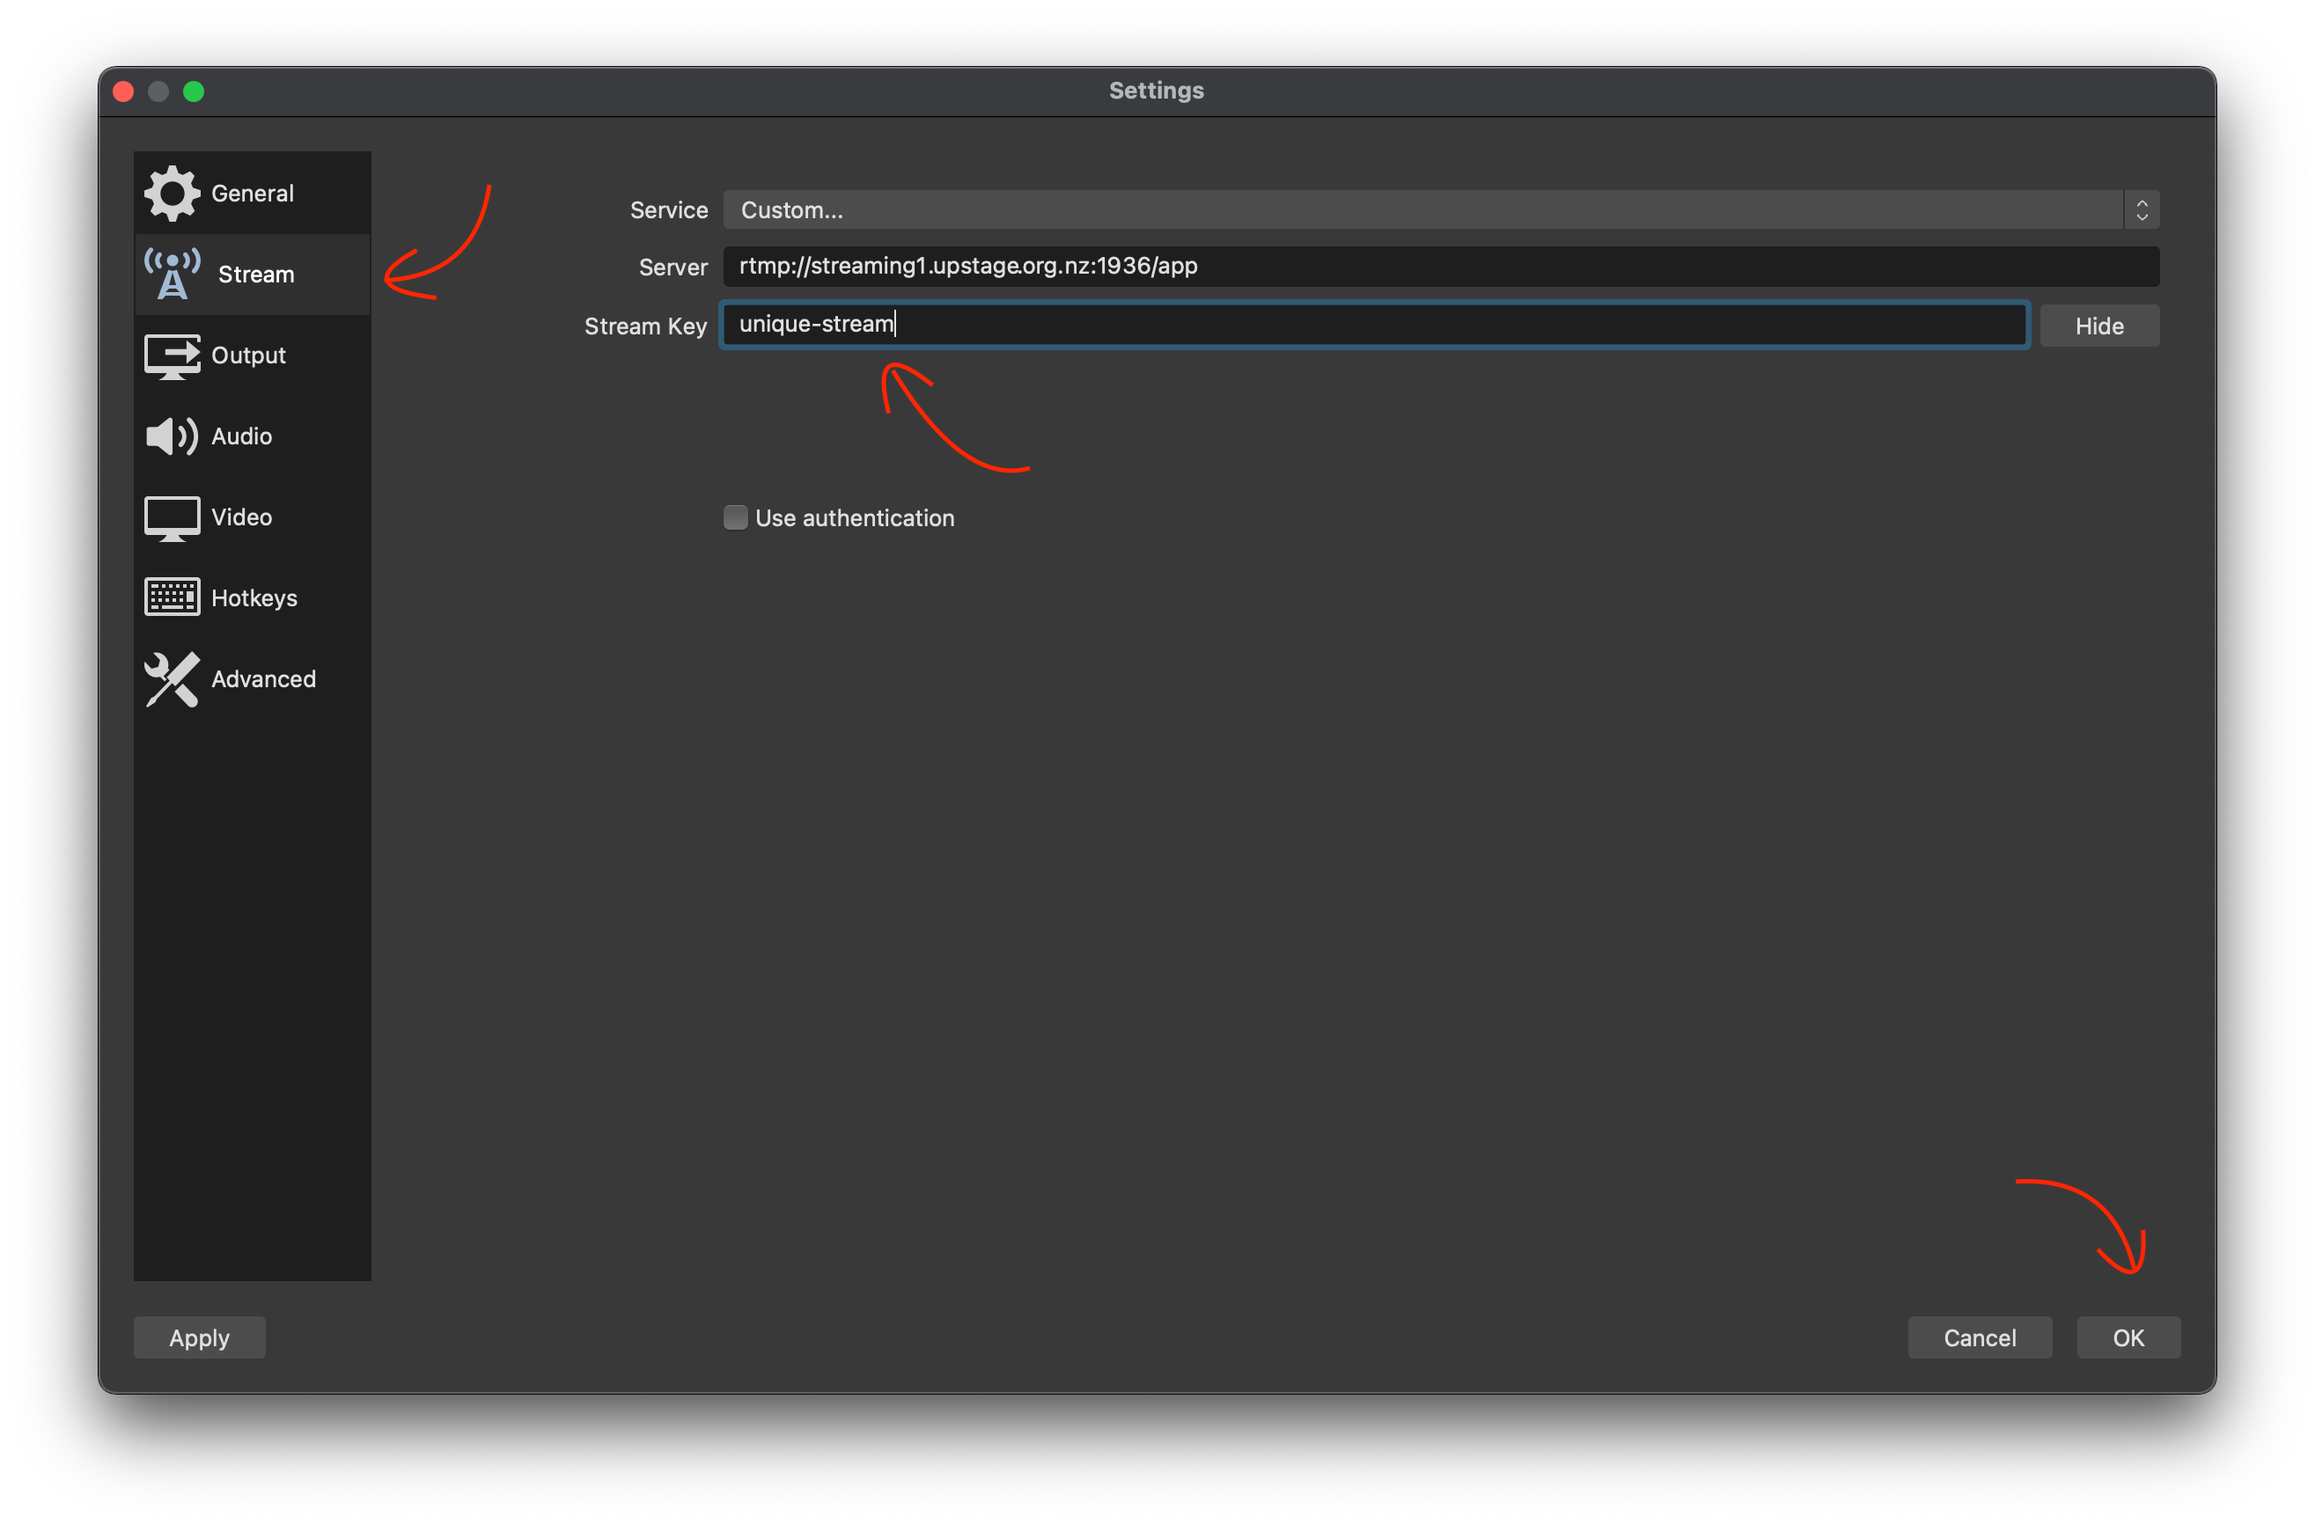
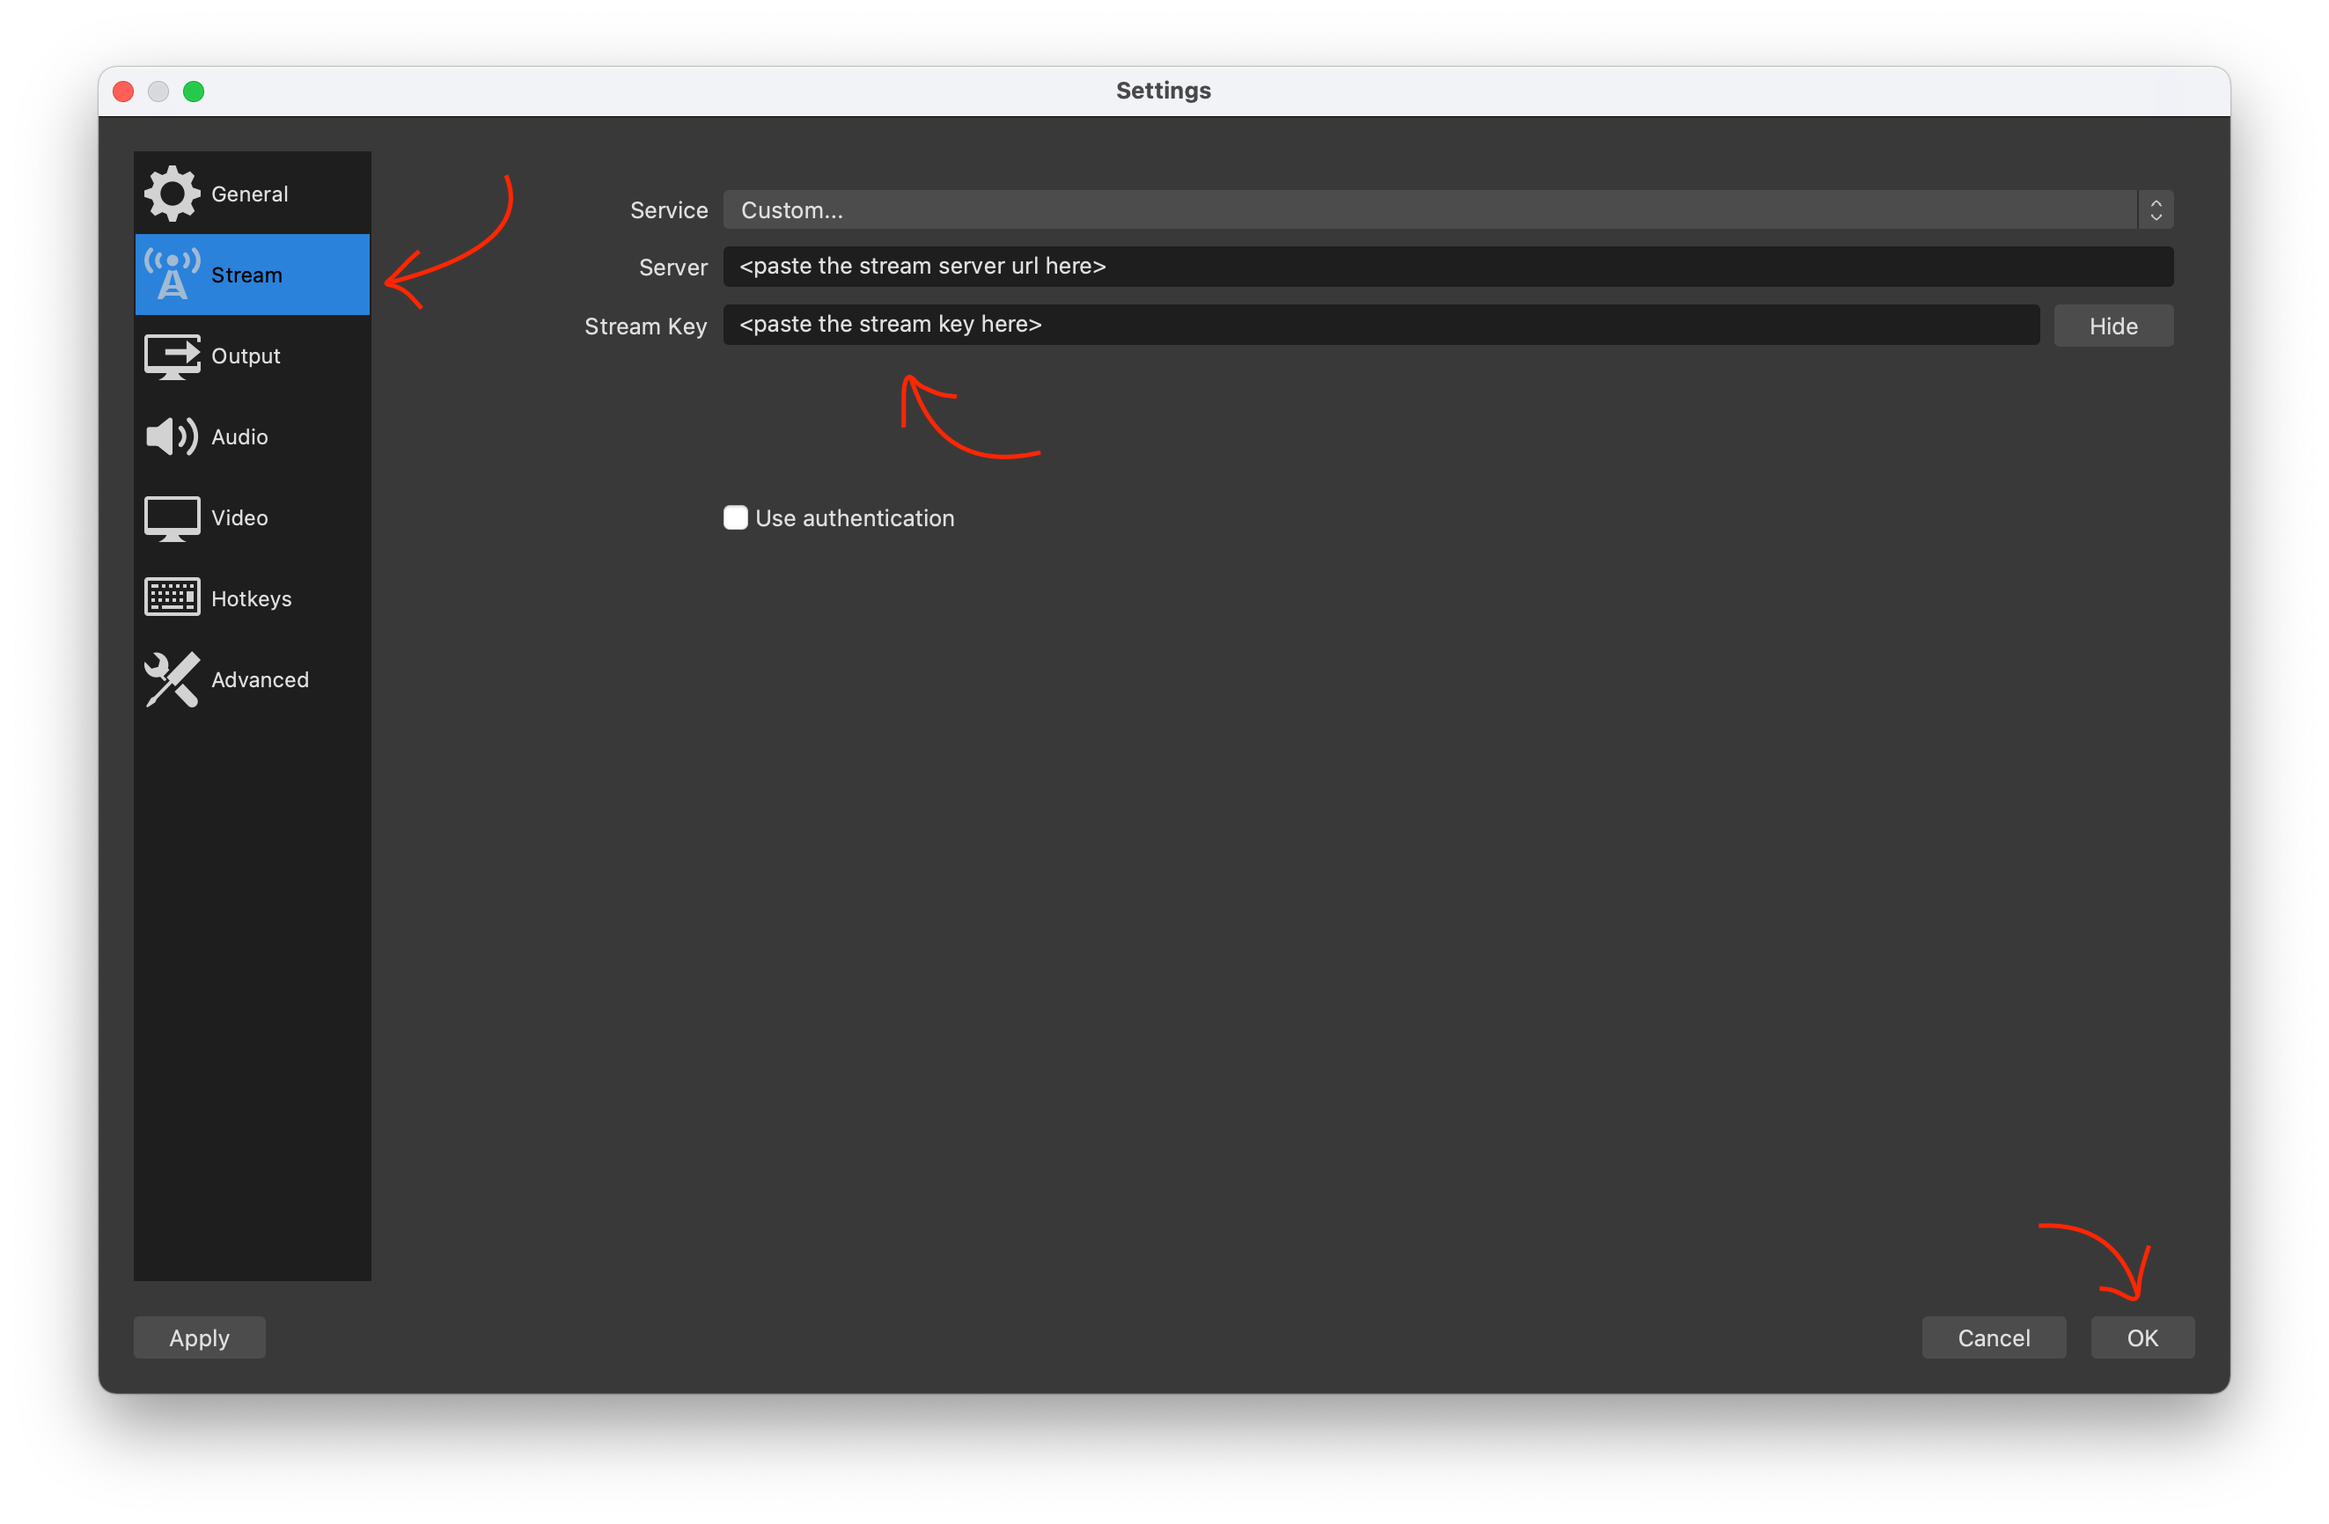
fix streaming not moveable and new shape type

diff --git a/ui/dashboard/src/store/modules/stage/index.js b/ui/dashboard/src/store/modules/stage/index.js
@@ -38,6 +38,7 @@ export default {
             backdrops: [],
             audios: [],
             streams: [],
+            shapes: [],
             config: {
                 animateDuration: 1000,
                 reactionDuration: 5000,
@@ -96,6 +97,7 @@ export default {
                 .concat(state.tools.avatars.map(a => a.frames ?? []).flat())
                 .concat(state.tools.props.map(p => p.src))
                 .concat(state.tools.backdrops.map(b => b.src))
+                .concat(state.tools.shapes.map(b => b.src))
             return assets;
         },
         audios(state) {
@@ -306,7 +308,9 @@ export default {
         },
         PUSH_RUNNING_STREAMS(state, streams) {
             state.tools.streams = state.tools.streams.filter(s => !s.autoDetect).concat(streams);
-            state.loadingRunningStreams = false
+        },
+        PUSH_SHAPES(state, shapes) {
+            state.tools.shapes = shapes;
         },
         UPDATE_IS_DRAWING(state, isDrawing) {
             state.preferences.isDrawing = isDrawing;
@@ -644,10 +648,12 @@ export default {
         async loadStage({ commit, dispatch }, { url, recordId }) {
             commit('CLEAN_STAGE', true);
             commit('SET_PRELOADING_STATUS', true);
-            const model = await stageGraph.loadStage(url, recordId)
-            if (model) {
-                commit('SET_MODEL', model);
-                const { events } = model
+            const { stage, shapes } = await stageGraph.loadStage(url, recordId)
+            console.log(shapes)
+            if (stage) {
+                commit('SET_MODEL', stage);
+                commit('PUSH_SHAPES', shapes)
+                const { events } = stage
                 if (recordId) {
                     commit('SET_REPLAY', {
                         timestamp: {
@@ -731,6 +737,7 @@ export default {
             state.loadingRunningStreams = true
             const streams = await nmsService.getStreams()
             commit('PUSH_RUNNING_STREAMS', streams)
+            state.loadingRunningStreams = false
         }
     },
 };

diff --git a/ui/dashboard/src/components/stage/Toolbox/tools/Stream/index.vue b/ui/dashboard/src/components/stage/Toolbox/tools/Stream/index.vue
@@ -1,9 +1,9 @@
 <template>
   <div @click="newStream">
-    <div class="icon is-large">
-      <Icon src="new.svg" size="36" />
+    <div style="height: 48px">
+      <OBSInstruction />
     </div>
-    <span class="tag is-light is-block">New</span>
+    <span class="tag is-light is-block">Instruction</span>
   </div>
   <div v-for="stream in streams" :key="stream">
     <Skeleton :data="stream">
@@ -14,30 +14,35 @@
   <div v-if="loading">
     <LoadingSkeleton />
   </div>
+  <div v-else @click="fetchRunningStreams">
+    <div class="icon is-large">
+      <Icon src="refresh.svg" size="36" />
+    </div>
+    <span class="tag is-light is-block">Refresh</span>
+  </div>
 </template>
 
 <script>
-import { computed } from "vue";
+import { computed, onMounted } from "vue";
 import { useStore } from "vuex";
 import Skeleton from "../../Skeleton";
 import Icon from "@/components/Icon";
 import RTMPStream from "@/components/RTMPStream";
 import LoadingSkeleton from "@/components/Skeleton";
+import OBSInstruction from "@/views/backstage/Media/OBSInstruction";
 
 export default {
-  components: { Skeleton, Icon, RTMPStream, LoadingSkeleton },
+  components: { Skeleton, Icon, RTMPStream, LoadingSkeleton, OBSInstruction },
   setup: () => {
     const store = useStore();
-    const newStream = () => {
-      store.dispatch("stage/openSettingPopup", {
-        type: "CreateStream",
-      });
-    };
     const streams = computed(() => store.state.stage.tools.streams);
     const loading = computed(() => store.state.stage.loadingRunningStreams);
-    store.dispatch("stage/getRunningStreams");
+    const fetchRunningStreams = () => {
+      store.dispatch("stage/getRunningStreams");
+    };
+    onMounted(fetchRunningStreams);
 
-    return { streams, newStream, loading };
+    return { streams, loading, fetchRunningStreams };
   },
 };
 </script>

diff --git a/ui/dashboard/src/components/objects/Streamer/index.vue b/ui/dashboard/src/components/objects/Streamer/index.vue
@@ -39,14 +39,15 @@
                 </div>
               </button>
             </p>
-            <p class="control menu-group-item" @click="clip(vue)">
+            <p
+              class="control menu-group-item"
+              v-for="shape in shapes"
+              :key="shape.src"
+              @click="clip(shape.src)"
+              :title="shape.name"
+            >
               <button class="button is-light">
-                <img style="height: 100%" :src="vue" />
-              </button>
-            </p>
-            <p class="control menu-group-item" @click="clip(dog)">
-              <button class="button is-light">
-                <img style="height: 100%" :src="dog" />
+                <img style="height: 100%" :src="shape.src" />
               </button>
             </p>
           </div>
@@ -70,8 +71,6 @@ import { computed, reactive, ref, watch } from "vue";
 import Object from "../Object.vue";
 import { useStore } from "vuex";
 import { useFlv, useShape } from "./composable";
-import vue from "@/assets/logo.png";
-import dog from "@/assets/dog.png";
 import { getSubsribeLink } from "@/utils/streaming";
 
 export default {
@@ -79,6 +78,8 @@ export default {
   props: ["object"],
   setup: (props) => {
     const store = useStore();
+    const shapes = computed(() => store.state.stage.tools.shapes);
+
     const stream = reactive({ ...props.object, isPlaying: true });
     const video = ref();
 
@@ -97,8 +98,8 @@ export default {
     watch(
       () => props.object,
       () => {
-        delete props.object.src;
         window.Object.assign(stream, props.object);
+        console.log(props.object);
         synchronize();
       }
     );
@@ -147,8 +148,7 @@ export default {
       playStream,
       pauseStream,
       clip,
-      vue,
-      dog,
+      shapes,
     };
   },
 };

diff --git a/ui/dashboard/src/components/objects/Streamer/composable.js b/ui/dashboard/src/components/objects/Streamer/composable.js
@@ -1,4 +1,4 @@
-import { computed, onMounted, ref, watch } from "vue";
+import { onMounted, ref, watch } from "vue";
 import { cropImageFromCanvas } from "@/utils/canvas";
 import flvjs from "flv.js";
 
@@ -17,7 +17,7 @@ export const useShape = (video, object) => {
     const loop = () => {
         if (!video.value.paused && !video.value.ended) {
             draw();
-            setTimeout(loop, 1000 / 30); // drawing at 30fps
+            requestAnimationFrame(loop);
         }
     }
 
@@ -62,7 +62,7 @@ export const useShape = (video, object) => {
 }
 
 export const useFlv = (video, src) => {
-    const isSupported = computed(() => flvjs.isSupported());
+    const playable = ref(flvjs.isSupported());
 
     const initPlayer = () => {
         if (flvjs.isSupported()) {
@@ -70,15 +70,17 @@ export const useFlv = (video, src) => {
                 type: "flv",
                 url: src.value,
             });
+            flvPlayer.on('error', (e) => {
+                console.log('error', e)
+                playable.value = false
+            })
             flvPlayer.attachMediaElement(video.value);
             flvPlayer.load();
-            flvPlayer.play();
         }
     };
 
     onMounted(initPlayer);
     watch(src, initPlayer);
-    console.log(src.value)
 
-    return { isSupported }
+    return { playable }
 }

diff --git a/ui/dashboard/src/views/backstage/Media/OBSInstruction.vue b/ui/dashboard/src/views/backstage/Media/OBSInstruction.vue
@@ -1,10 +1,7 @@
 <template>
   <Modal>
     <template #trigger>
-      <p
-        data-tooltip="Show instruction on OBS Studio"
-        class="has-tooltip-bottom"
-      >
+      <p title="Show instruction on OBS Studio" class="has-tooltip-bottom">
         <Icon size="50" src="obs-logo.png" />
       </p>
     </template>
@@ -28,9 +25,9 @@
       </div>
       <div class="columns">
         <div class="column is-4 mt-6">
-          <b>Step 2: </b>In Stream tab, choose <code>Custom...</code> for
-          Service, <code>rtmp://streaming1.upstage.org.nz:1936/app</code> for
-          Server and <code>{{ src }}</code> for Stream Key.
+          <b>Step 2: </b>In Stream tab, choose Custom... for Service,
+          <code>{{ publishUrl }}</code> for Server and
+          <code>{{ src }}</code> for Stream Key.
         </div>
         <div class="column">
           <img src="@/assets/obs-instruction/2.png" alt="Step 2" />
@@ -53,10 +50,14 @@
 <script>
 import Icon from "@/components/Icon.vue";
 import Modal from "@/components/Modal.vue";
+import configs from "@/config";
 
 export default {
   components: { Icon, Modal },
   props: ["src"],
+  setup: () => {
+    return { publishUrl: configs.STREAMING.publish };
+  },
 };
 </script>
 

diff --git a/ui/dashboard/src/services/graphql/stage.js b/ui/dashboard/src/services/graphql/stage.js
@@ -1,3 +1,4 @@
+import { absolutePath } from "@/utils/common";
 import { gql } from "graphql-request";
 import { stageGraph } from ".";
 import { createClient } from "./graphql";
@@ -135,9 +136,23 @@ export default {
           }
         }
       }
+      shapes: assetList(assetType: "shape") {
+        edges {
+          node {
+            name
+            fileLocation
+          }
+        }
+      }
     }
     ${stageFragment}
-  `, { fileLocation, performanceId }).then(response => response.stageList.edges[0]?.node),
+  `, { fileLocation, performanceId }).then(response => ({
+    stage: response.stageList.edges[0]?.node,
+    shapes: response.shapes.edges.map(edge => ({
+      name: edge.node.name,
+      src: absolutePath(edge.node.fileLocation)
+    }))
+  })),
   loadPermission: (fileLocation) => client.request(gql`
     query ListStage($fileLocation: String) {
       stageList(fileLocation: $fileLocation) {

diff --git a/ui/dashboard/src/views/backstage/Media/MediaForm.vue b/ui/dashboard/src/views/backstage/Media/MediaForm.vue
@@ -210,10 +210,14 @@ export default {
     });
 
     const tabs = computed(() => {
-      const res = [
-        { key: "preview", label: "Preview", icon: "fas fa-image" },
-        { key: "stages", label: "Stage", icon: "fas fa-person-booth" },
-      ];
+      const res = [{ key: "preview", label: "Preview", icon: "fas fa-image" }];
+      if (form.mediaType !== "shape") {
+        res.push({
+          key: "stages",
+          label: "Stage",
+          icon: "fas fa-person-booth",
+        });
+      }
       if (form.mediaType === "avatar") {
         res.push({ key: "voice", label: "Voice", icon: "fas fa-volume-up" });
       }

diff --git a/ui/dashboard/src/components/stage/SettingPopup/index.vue b/ui/dashboard/src/components/stage/SettingPopup/index.vue
@@ -23,11 +23,10 @@ import { useStore } from "vuex";
 import ChatBox from "./settings/ChatBox";
 import ChatParameters from "./settings/ChatParameters";
 import VoiceParameters from "./settings/VoiceParameters";
-import CreateStream from "./settings/CreateStream";
 import Icon from "@/components/Icon";
 
 export default {
-  components: { ChatParameters, VoiceParameters, CreateStream, Icon, ChatBox },
+  components: { ChatParameters, VoiceParameters, Icon, ChatBox },
   setup: () => {
     const store = useStore();
     const isActive = computed(() => store.state.stage.settingPopup.isActive);

diff --git a/ui/dashboard/src/components/RTMPStream.vue b/ui/dashboard/src/components/RTMPStream.vue
@@ -1,5 +1,5 @@
 <template>
-  <video v-if="isSupported" ref="video"></video>
+  <video v-if="playable" ref="video"></video>
   <img v-else src="@/assets/notfound.svg" />
 </template>
 
@@ -13,8 +13,8 @@ export default {
     const video = ref();
     const fullUrl = computed(() => getSubsribeLink(props.src));
 
-    const { isSupported } = useFlv(video, fullUrl);
-    return { video, isSupported };
+    const { playable } = useFlv(video, fullUrl);
+    return { video, playable };
   },
 };
 </script>

diff --git a/ui/dashboard/src/components/objects/Moveable.vue b/ui/dashboard/src/components/objects/Moveable.vue
@@ -202,11 +202,9 @@ export default {
           h: height,
           rotate,
           moveSpeed,
-          type,
-          isPlaying,
           opacity,
         } = props.object;
-        if (isDragging.value || (type === "stream" && isPlaying)) {
+        if (isDragging.value) {
           return;
         }
         animation?.pause(true);

diff --git a/ui/dashboard/src/services/rest/nms.js b/ui/dashboard/src/services/rest/nms.js
@@ -26,8 +26,8 @@ export default {
                     isRTMP: true,
                     autoDetect: true,
                     url: key,
-                    w: width,
-                    h: height,
+                    w: 100 * width / height,
+                    h: 100,
                 }
                 streams.push(stream)
             }

diff --git a/ui/dashboard/src/components/form/MediaType.vue b/ui/dashboard/src/components/form/MediaType.vue
@@ -2,7 +2,7 @@
   <Dropdown
     title="Type"
     v-model="mediaType"
-    :data="['avatar', 'prop', 'backdrop', 'audio', 'stream']"
+    :data="['avatar', 'prop', 'backdrop', 'audio', 'stream', 'shape']"
     :render-label="titleCase"
     :is-up="isUp"
   />
